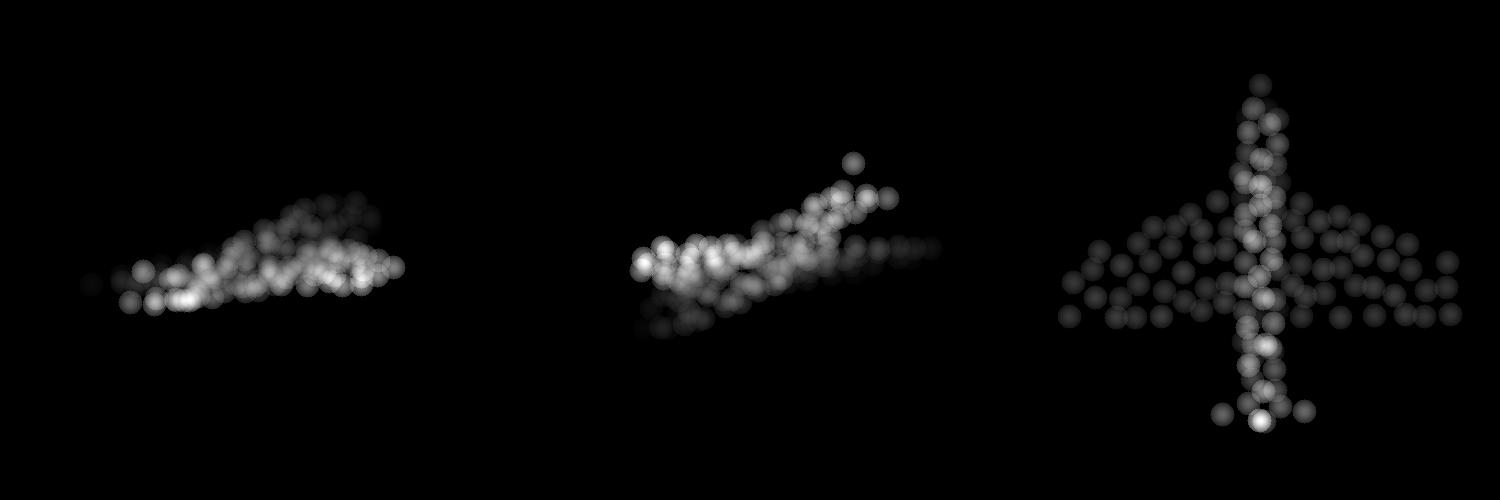
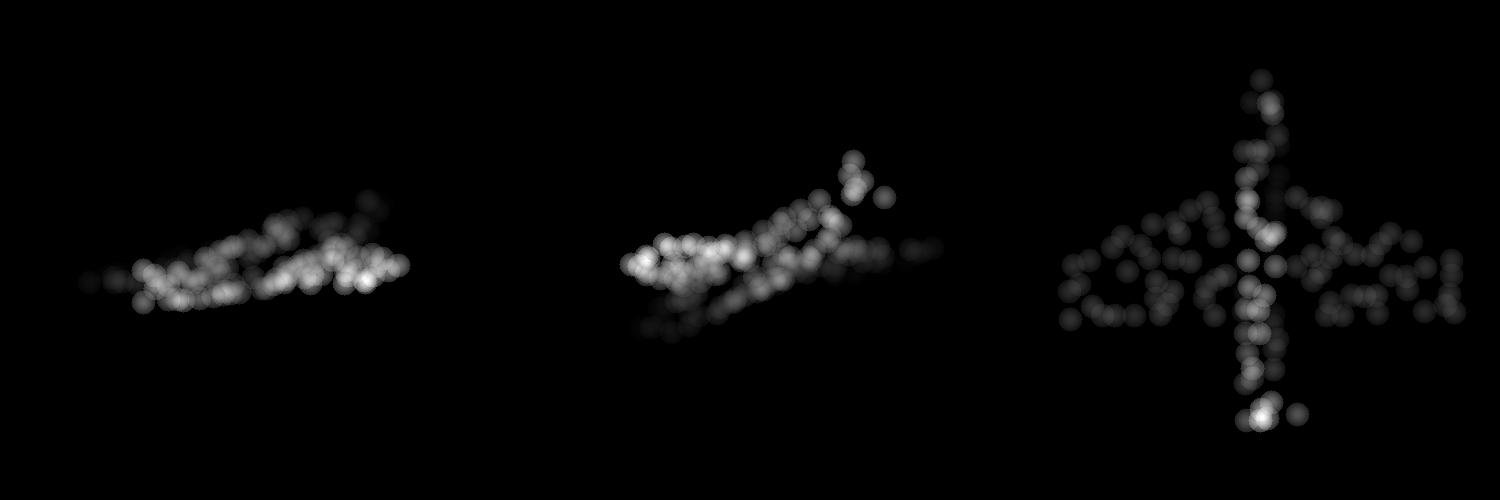
pointnet++ recent update: does not affect accuracy - dynamic range configs for QB and fixed for FPS.

Changed region(s): [[0.7053, 0.18, 0.9813, 0.87], [0.0613, 0.39, 0.276, 0.63], [0.3987, 0.33, 0.6133, 0.66]]

diff --git a/models/pointnet_util.py b/models/pointnet_util.py
@@ -6,7 +6,7 @@ import numpy as np
 from PIL import Image
 from visualizer.pc_utils import point_cloud_three_views
 DIMSORT = True
-DIMSORT_DIV = 1
+DIMSORT_DIV = 16
 DIMSORT_RANGE = int(2048 / DIMSORT_DIV)
 VISUALIZE = True
 TEST_FPS = False
@@ -104,7 +104,6 @@ def index_points_query_ball(radius, nsample, xyz, new_xyz):
 def determine_segment(sorted_array, num_segment):
     seg_table = [0]
     length = len(sorted_array)
-    
     level_gap = 2.0 / num_segment
     current_level = -1.0 + level_gap
     for i in range(length):
@@ -132,16 +131,33 @@ def index_points_query_ball_include_points(radius, nsample, xyz, xyz2, new_xyz):
     # """TODO: Accelerate this"""
     group_idx = torch.zeros([B, S, nsample]).long()
     permu_list = torch.randperm(N)
+    num_segment = 2.0 // radius
+    if num_segment > DIMSORT_DIV:
+        num_segment = DIMSORT_DIV
+    actual_computation = 0
     for i in range(B):
         if not TEST_FPS:
-            seg_table = determine_segment(xyz[i, :, 2], DIMSORT_DIV)
+            seg_table = determine_segment(xyz[i, :, 2], num_segment)
             # print(seg_table)
 
         for j in range(S):
 
             if not TEST_FPS:
-                lower = seg_table[int(((new_xyz[i, j, 2] + 1.0) * DIMSORT_DIV) // 2)]
-                upper = seg_table[int(((new_xyz[i, j, 2] + 1.0) * DIMSORT_DIV) // 2 + 1)]
+                seg_pos = int(((new_xyz[i, j, 2] + 1.0) * num_segment) // 2)
+                if seg_pos > 0 and seg_pos < len(seg_table) - 2:
+                    lower = seg_table[seg_pos - 1]
+                    upper = seg_table[seg_pos + 2]
+                elif seg_pos > 0:
+                    lower = seg_table[seg_pos - 1]
+                    upper = seg_table[-1]
+                elif seg_pos < len(seg_table) - 2:
+                    lower = seg_table[0]
+                    upper = seg_table[seg_pos + 2]
+                else:
+                    lower = seg_table[0]
+                    upper = seg_table[-1]
+                actual_computation += upper - lower
+                
                 permu_list = lower + torch.randperm(upper - lower)
 
             count = 0
@@ -155,7 +171,8 @@ def index_points_query_ball_include_points(radius, nsample, xyz, xyz2, new_xyz):
             while count <= nsample - 1:
                 group_idx[i, j, count] = group_idx[i, j, count - 1]
                 count += 1
-    
+    if not TEST_FPS:
+        print("Dimsort's QB computation is {:2.2f}% of the original, ({}/ {})".format(100 * actual_computation / (B * S * N), actual_computation, B * S * N))
     new_points = index_points(xyz, group_idx)
     new_points2 = index_points(xyz2, group_idx)
 
@@ -172,7 +189,7 @@ def farthest_point_sample(xyz, npoint):
     device = xyz.device
     B, N, C = xyz.shape
     centroids = torch.zeros(B, npoint, dtype=torch.long).to(device)
-
+    actual_computation = 0
     if DIMSORT and not TEST_QB:
         for b in range(B):
             distance = torch.ones(1, N).to(device) * 1e10
@@ -184,9 +201,11 @@ def farthest_point_sample(xyz, npoint):
                 lower = farthest - DIMSORT_RANGE//2 if farthest > DIMSORT_RANGE//2 else 0
                 dist = torch.ones(1, N).to(device) * 1e10
                 dist[0, lower:upper] = torch.sum((xyz[b, lower:upper, :] - centroid) ** 2, -1)
+                actual_computation += (upper - lower)
                 mask = dist < distance
                 distance[mask] = dist[mask]
                 farthest = torch.max(distance, dim = -1)[1].long()
+        print("Dimsort's FPS computation is {:2.2f}% of the original, ({}/{})".format(100 * int(actual_computation) / (B * npoint * N), int(actual_computation), B * npoint * N))
     else:
         distance = torch.ones(B, N).to(device) * 1e10
         farthest = torch.randint(0, N, (B,), dtype=torch.long).to(device)

diff --git a/test_partseg.py b/test_partseg.py
@@ -108,7 +108,7 @@ def main(args):
         if DIMSORT:
             points, target = pcloud_sort(points, target, sel_dim = 2)
         if VISUALIZE:
-            print("save FPS sampled PD")
+            # print("save original PD")
             im_array = point_cloud_three_views(points.numpy()[0, :, :])
             img = Image.fromarray(np.uint8(im_array * 255.0))
             img.save('pd0-orig.jpg')
